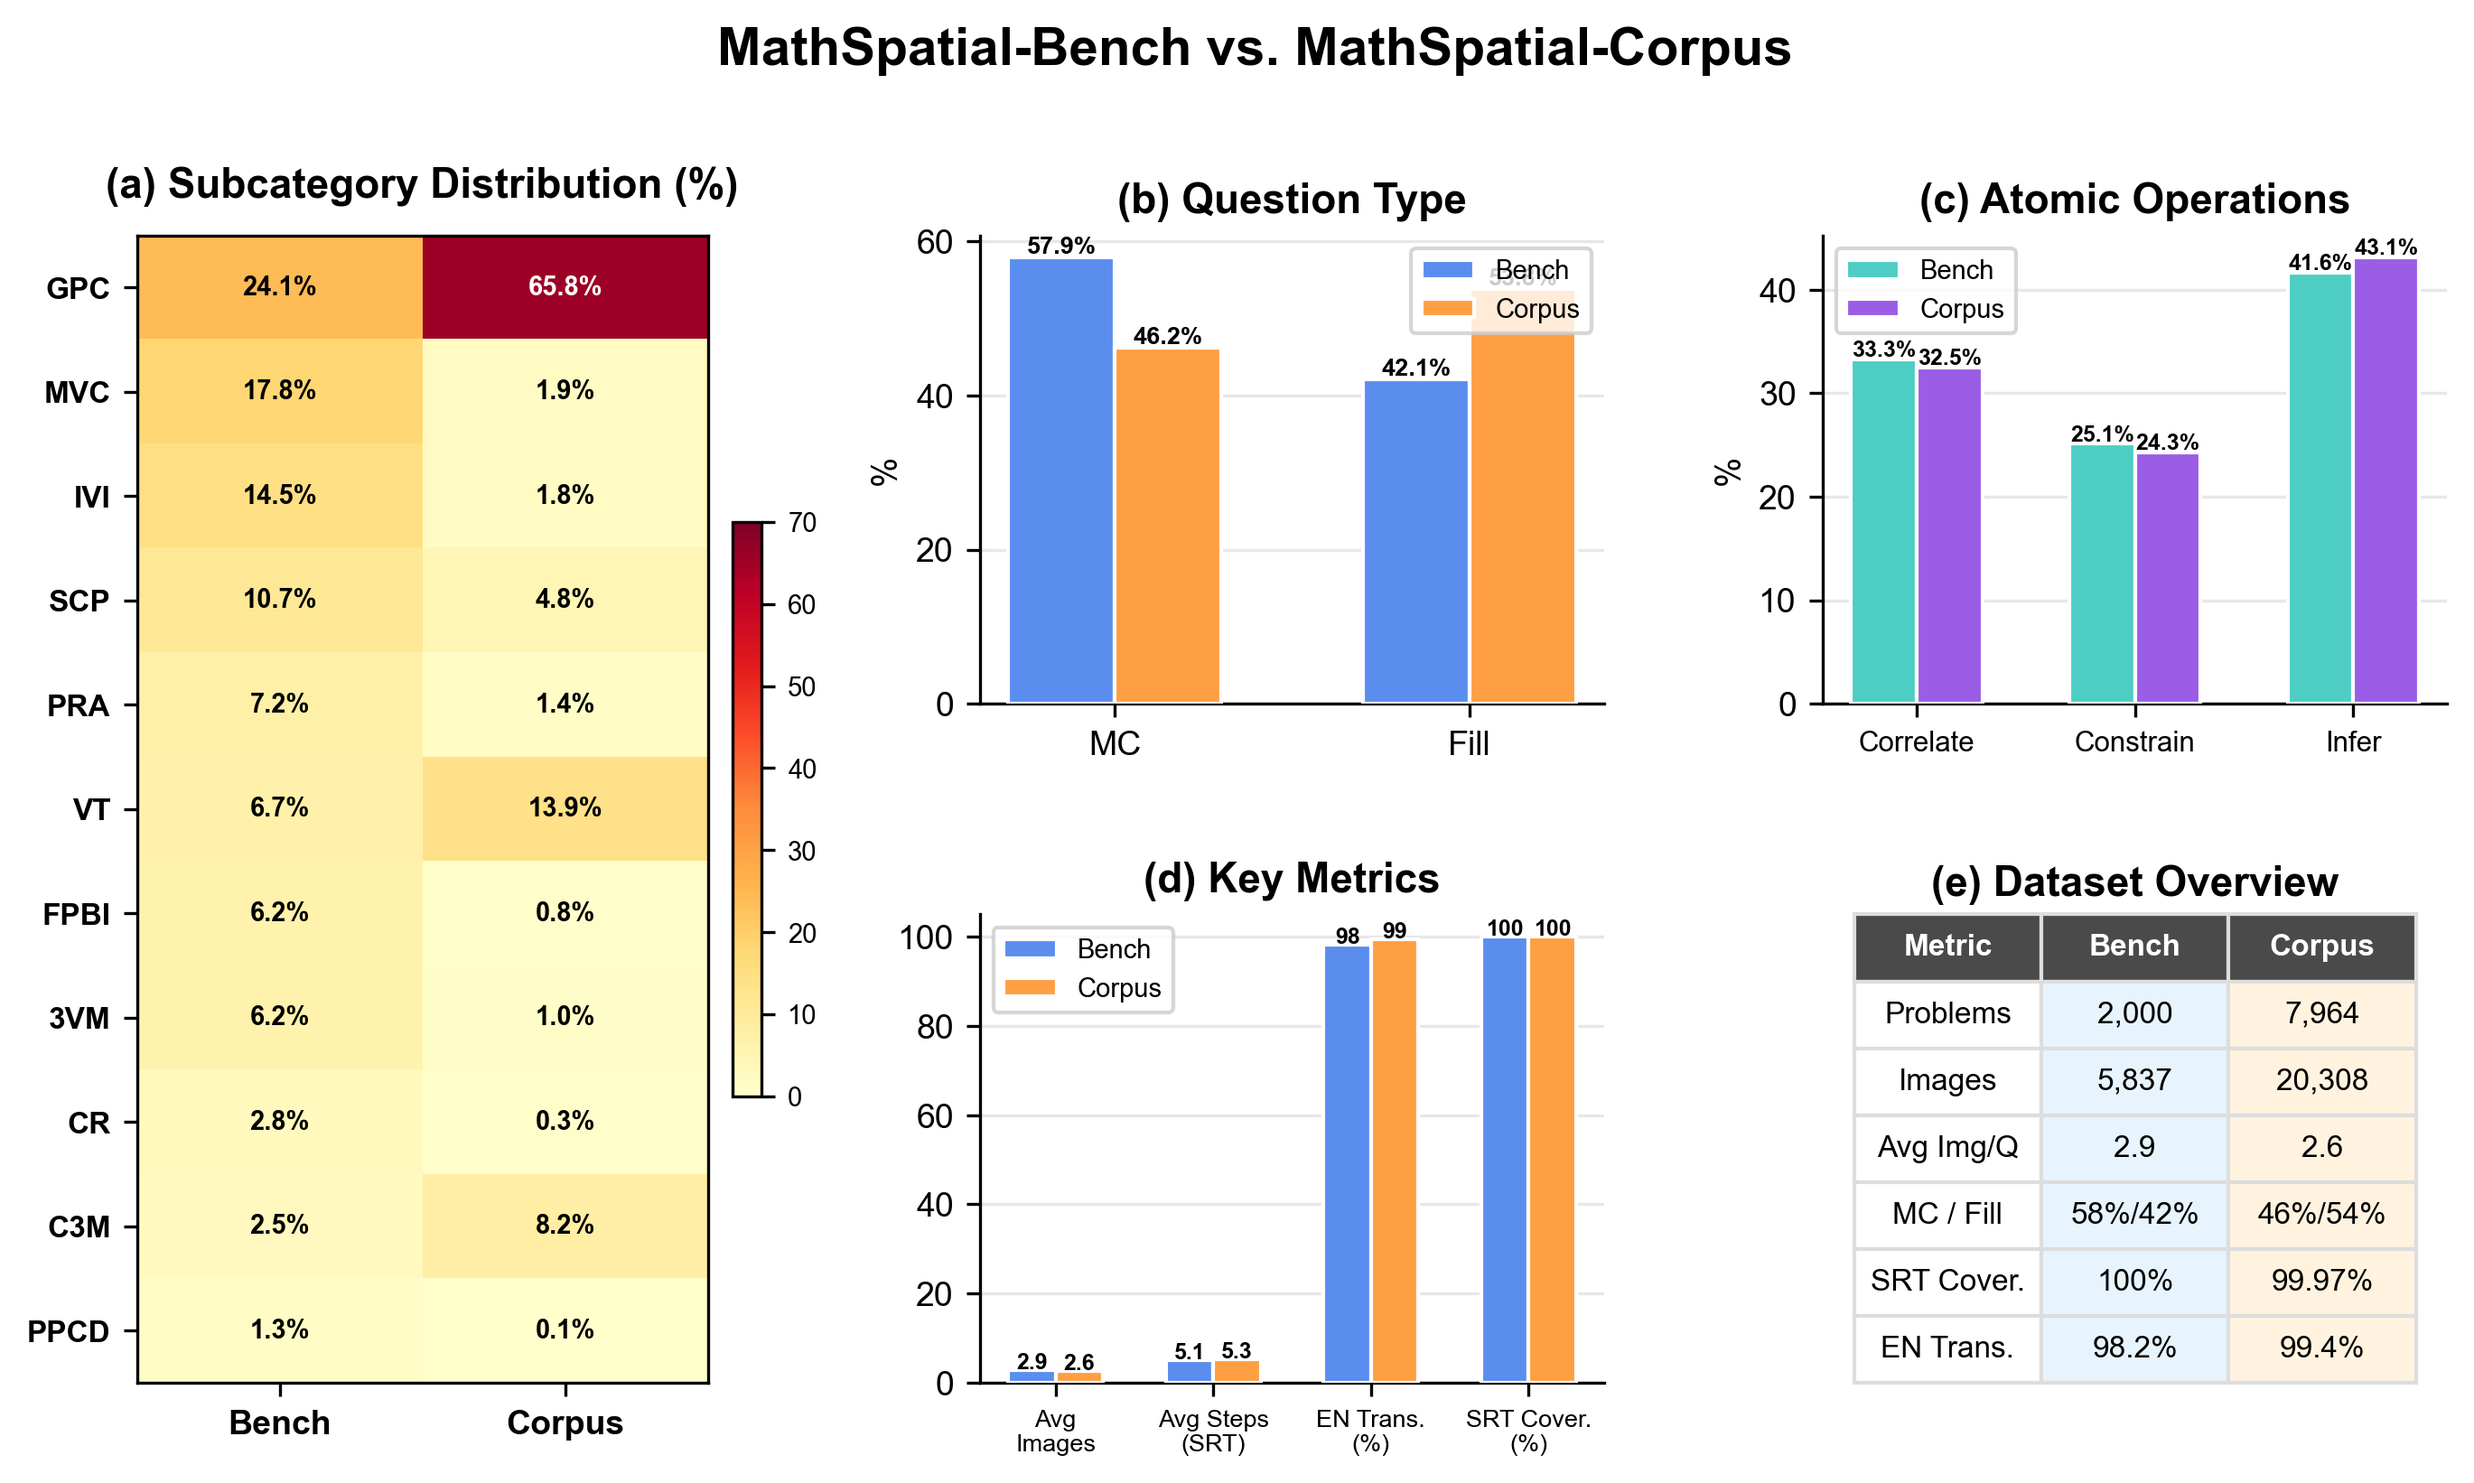
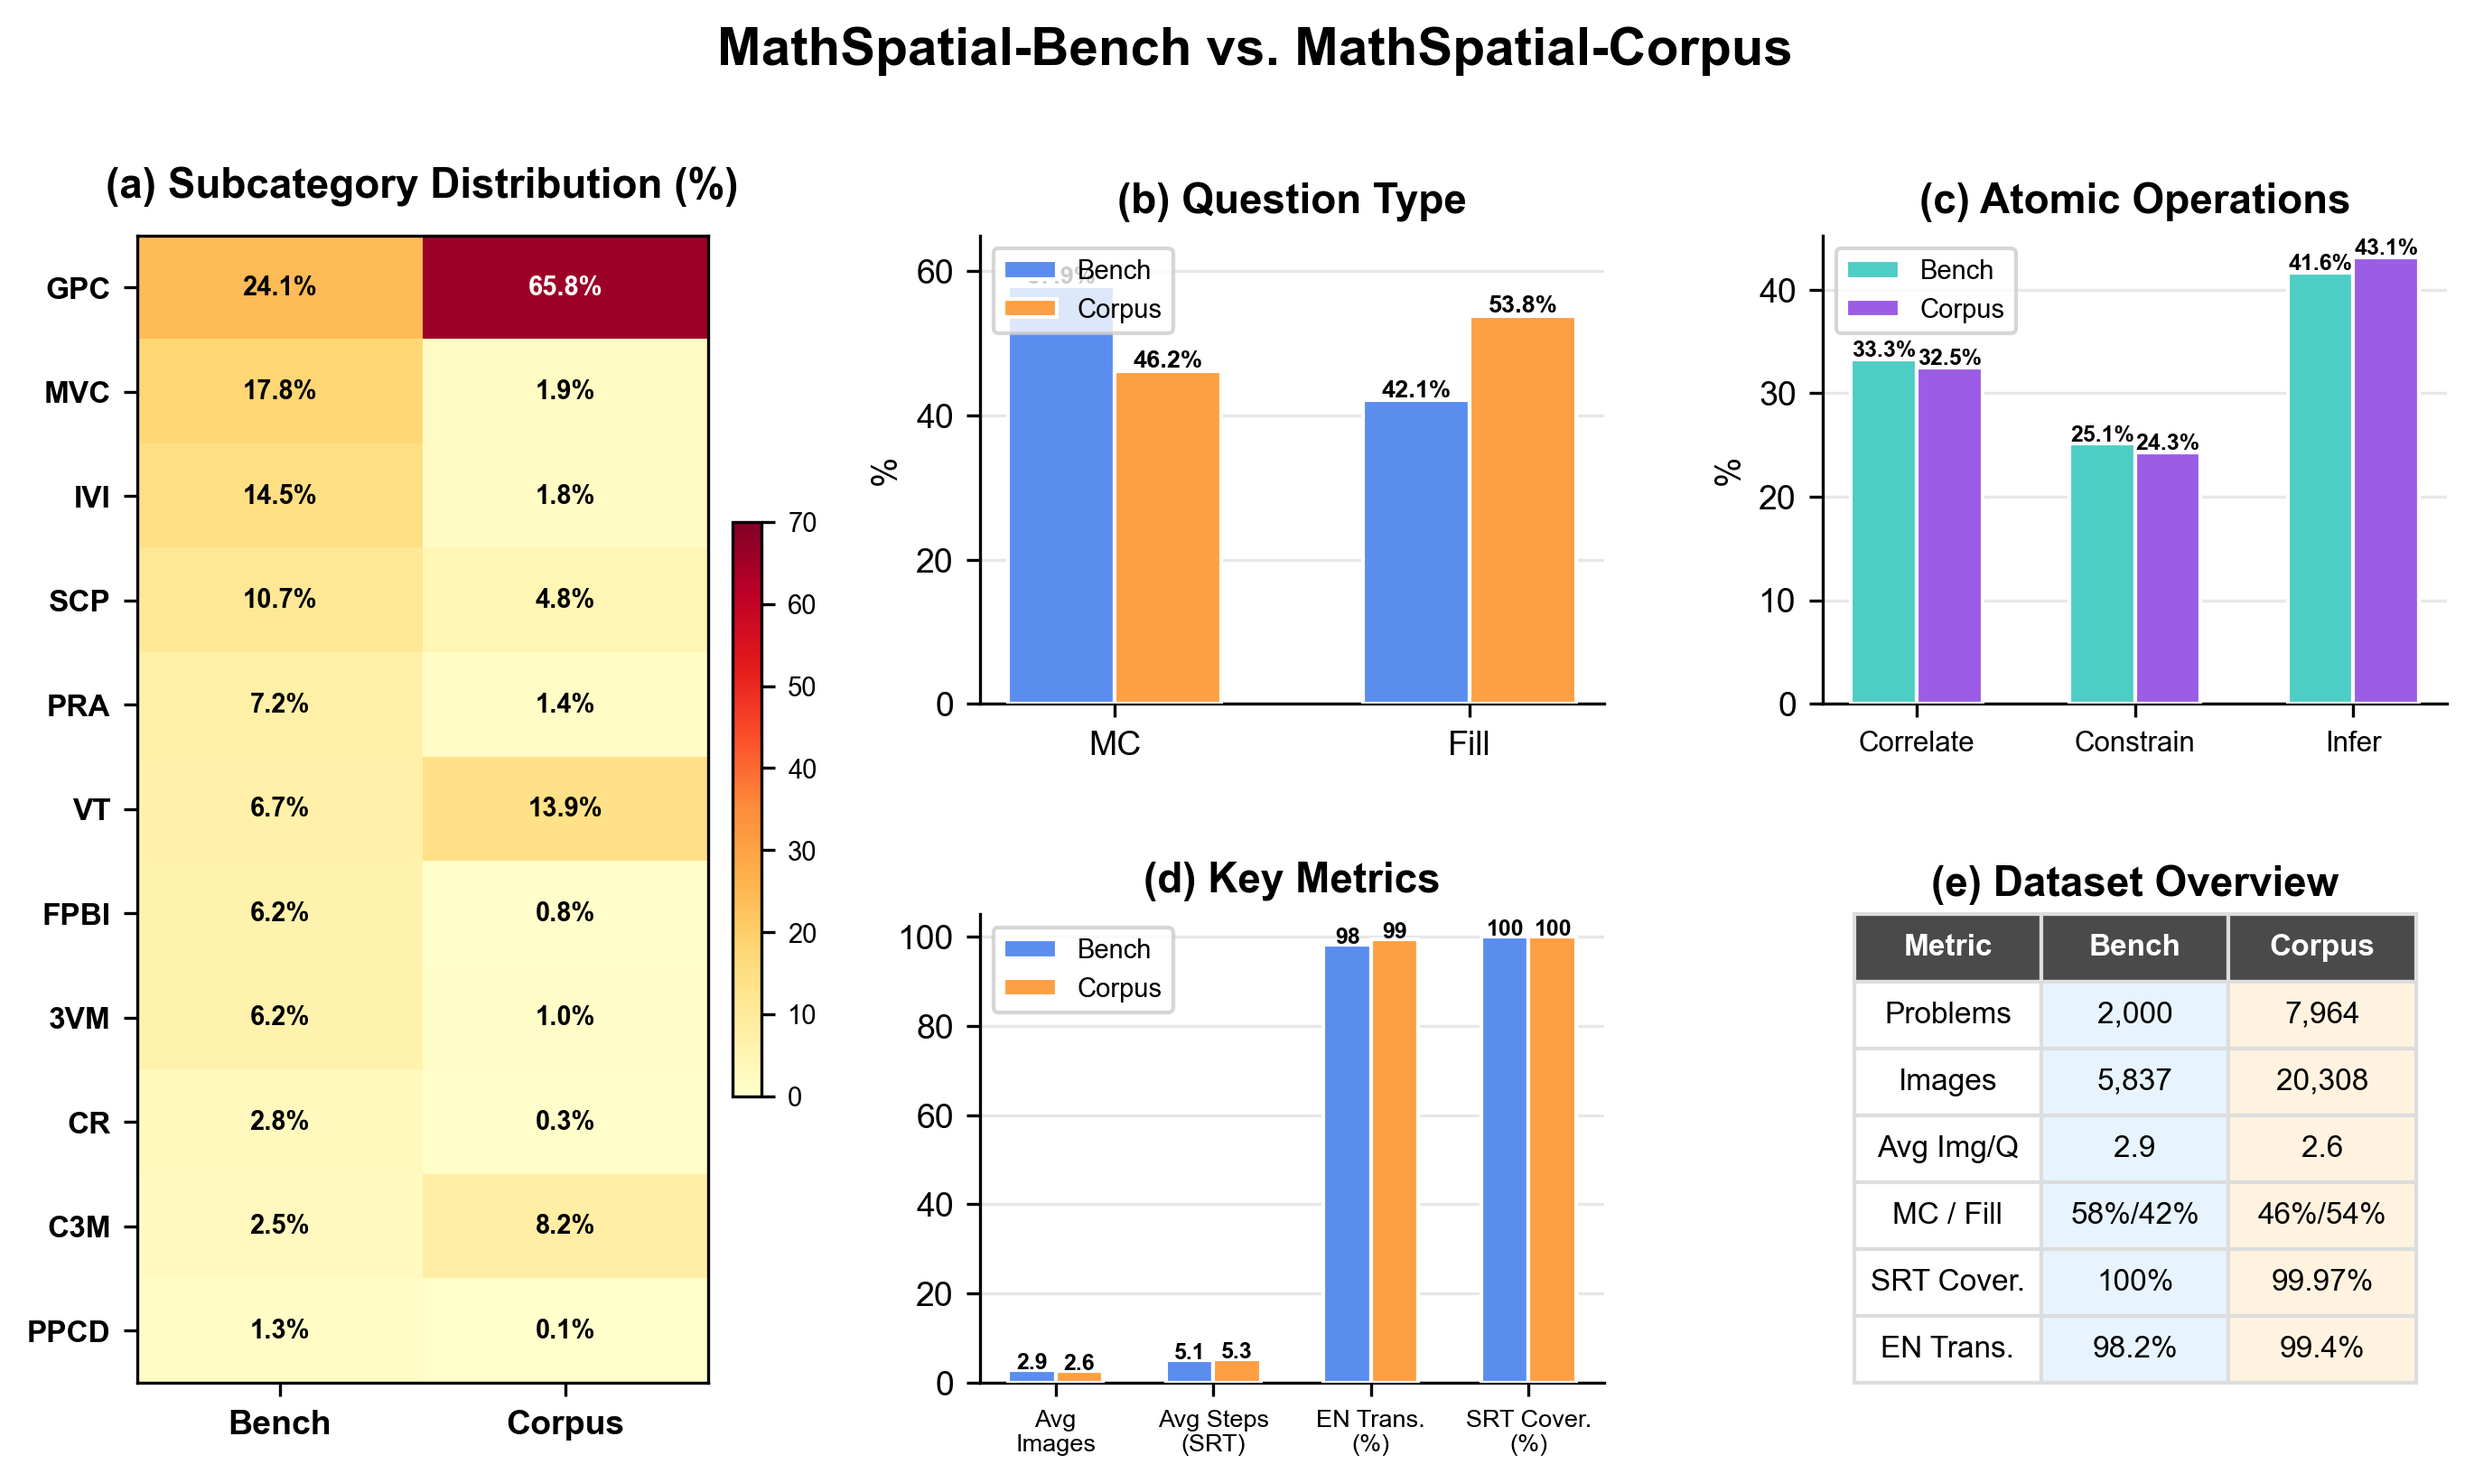
Fix multiple UI issues: figure legend, nav order, case studies, title
- Fix fig_bench_corpus_comparison: move (b) legend to upper-left,
  increase ylim to 65 so Fill bar labels are not overlapped
- Navbar Resources dropdown: reorder to Download → License → Supplementary
- Move Case Studies from Supplementary to Task Examples section as a
  collapsible toggle, with corrected title describing subcategory examples
- Force paper title to single line (white-space:nowrap, max-width:900px)

diff --git a/index.html b/index.html
@@ -45,8 +45,8 @@
         <a href="#download">Resources <i class="fas fa-chevron-down"></i></a>
         <ul class="nav-dropdown">
           <li><a href="#download">Download</a></li>
-          <li><a href="#supplementary">Supplementary</a></li>
           <li><a href="#license">License</a></li>
+          <li><a href="#supplementary">Supplementary</a></li>
         </ul>
       </li>
       <li><a href="https://huggingface.co/datasets/shuolucs/MathSpatial" target="_blank" class="nav-cta"><i class="fas fa-database"></i> Dataset</a></li>
@@ -178,7 +178,7 @@
 
     <div class="two-col animate-on-scroll" style="margin-top:48px;">
       <div class="img-showcase">
-        <img src="static/images/fig_bench_corpus_comparison.png?v=1775455884" alt="Bench vs Corpus" loading="lazy">
+        <img src="static/images/fig_bench_corpus_comparison.png?v=1775455889" alt="Bench vs Corpus" loading="lazy">
         <p class="img-caption-lg">
           <strong>Figure:</strong> Bench vs. Corpus comparison across categories.
         </p>
@@ -275,6 +275,16 @@
         <strong>Abstract Deduction:</strong> calculating geometric properties.
       </p>
     </div>
+
+    <details class="collapsible animate-on-scroll" style="margin-top:32px;">
+      <summary style="cursor:pointer; font-size:1.1rem; font-weight:600; color:var(--primary); padding:12px 0;">
+        <i class="fas fa-search-plus" style="margin-right:8px;"></i>View Detailed Case Studies (All Subcategories)
+      </summary>
+      <div class="img-showcase" style="margin-top:16px;">
+        <img src="static/images/case_studies.png" alt="Case Studies" loading="lazy">
+        <p class="img-caption">Representative examples from each of the 11 subcategories, showing the diversity of spatial reasoning tasks across Holistic Recognition, Generative Inference, and Abstract Deduction.</p>
+      </div>
+    </details>
 
   </div>
 </section>
@@ -682,18 +692,8 @@
   <div class="container">
     <h2 class="section-title animate-on-scroll">Supplementary <span class="highlight">Material</span></h2>
     <p class="section-desc animate-on-scroll">
-      Additional details from the paper, including case studies, atomic annotation examples, and ablation studies. Click to expand.
+      Additional details from the paper, including atomic annotation examples and ablation studies. Click to expand.
     </p>
-
-    <details class="collapsible animate-on-scroll" style="margin-bottom:24px;">
-      <summary style="cursor:pointer; font-size:1.05rem; font-weight:600; color:var(--primary); padding:12px 16px; background:var(--bg-alt); border-radius:var(--radius); border:1px solid var(--border);">
-        <i class="fas fa-search-plus" style="margin-right:8px;"></i>Case Studies &mdash; Qualitative Examples across Model Families
-      </summary>
-      <div class="img-showcase" style="margin-top:16px;">
-        <img src="static/images/case_studies.png" alt="Case Studies" loading="lazy">
-        <p class="img-caption">Qualitative comparison of model responses on representative problems. Different models exhibit distinct failure patterns: GPT-5 excels at holistic recognition but struggles with abstract computation; Claude models often violate geometric projection rules; open-source models frequently produce reasoning gaps.</p>
-      </div>
-    </details>
 
     <details class="collapsible animate-on-scroll" style="margin-bottom:24px;">
       <summary style="cursor:pointer; font-size:1.05rem; font-weight:600; color:var(--primary); padding:12px 16px; background:var(--bg-alt); border-radius:var(--radius); border:1px solid var(--border);">

diff --git a/static/css/style.css b/static/css/style.css
@@ -221,13 +221,14 @@ body.lang-zh { font-family: 'Noto Sans SC', 'Inter', system-ui, -apple-system, s
 }
 .hero .subtitle strong { color: rgba(255,255,255,0.85); }
 .hero-paper-title {
-  font-size: 1.35rem;
+  font-size: 1.25rem;
   font-weight: 600;
   color: rgba(255,255,255,0.9);
-  max-width: 760px; margin: 0 auto 16px;
+  max-width: 900px; margin: 0 auto 16px;
   line-height: 1.6;
   animation: fadeInUp 0.7s ease-out 0.15s both;
   font-style: italic;
+  white-space: nowrap;
 }
 
 /* Hero Badges */
